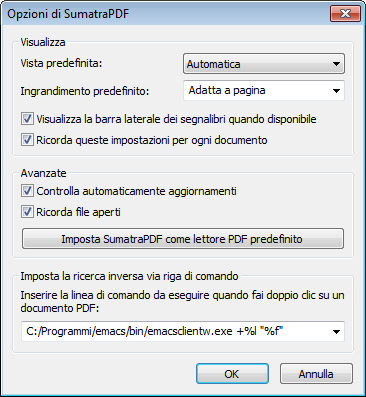
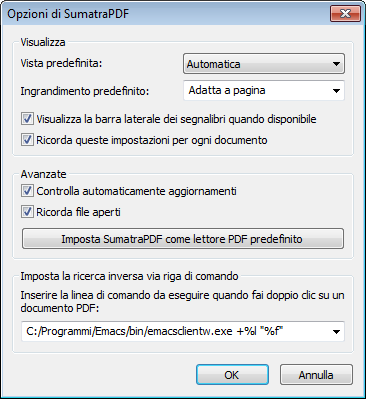
Finalmente dalla versione 2.2 SumatraPDF supporta nativamnete la ricerca-diretta inversa, senza passare per accrocchi vari del tipo SumatraPDF-TeX. Modificata, quindi, la figura e il testo

diff --git a/introemacs.tex b/introemacs.tex
@@ -269,32 +269,15 @@ takeown /f server
 \end{lstlisting}
 
 A questo punto, si può configurare \emacs{} per la ricerca diretta
-inversa con il visualizzatore SumatraPDF, scaricabile da sito \url{http://blog.kowalczyk.info/software/sumatrapdf/free-pdf-reader.html}.
-
-Per la verità, il visualizzatore sviluppato da Krzysztof Kowalczyk non
-supporta questa funzionalità, o meglio, non è ancora accessibile
-all'utente, pertanto, dopo averlo installato si può procedere nel
-seguente modo:
-\begin{enumerate}
-\item si scarica l'eseguibile Sumatra-\TeX{} %
-\sito{http://william.famille-blum.org/software/sumatra/}%
-     {SumatraPDF for \TeX\ users}
-di William Blum che ha sviluppato appunto la funzionalità di ricerca
-diretta-inversa e fornito un modo per accedervi;
-\item si rinomina l'eseguibile SumatraPDF-TeX in SumatraPDF;
-\item si copia tale file nella cartella dove è contenuto quello
-  installato precedentemente.
-\end{enumerate}
-
-A queste operazioni segue la configurazione di SumatraPDF e di \emacs,
-mediante il proprio file \emph{.emacs}.
+inversa con il visualizzatore SumatraPDF, scaricabile da sito
+\url{http://blog.kowalczyk.info/software/sumatrapdf/free-pdf-reader.html}.
 
 Per la ricerca inversa si deve aprire SumatraPDF, andare nel menu
 \texttt{Impostazioni} e quindi scegliere \texttt{Opzioni...} e scrivere la riga
 \begin{Verbatim}
-C:/Programmi/emacs/bin/emacsclientw.exe +%l "%f"
+C:/Programmi/Emacs/bin/emacsclientw.exe +%l "%f"
 \end{Verbatim}
-in \emph{Set inverse search command-line}. La figura~\ref{oi:fig:sumatra:setup}
+in \emph{Imposta la ricerca inversa via riga di comando}. La figura~\ref{oi:fig:sumatra:setup}
 vale più di mille parole.
 
 \begin{figure}[t]
@@ -314,9 +297,6 @@ del proprio file \emph{.init} con la riga
 \begin{Verbatim}
 (require 'sumatra-forward)
 \end{Verbatim}
-ed infine accertarsi di avere nella cartella degli eseguibili di
-\emacs, l'applicazione \textsf{ddeclient}, altrimenti scaricabile da %
-\url{http://ftp.gnu.org/old-gnu/emacs/windows/docs/ntemacs/contrib/ddeclient.zip}.
 
 Fatto questo resta da far capire a \emacs{} che si vuole la ricera
 diretta inversa, e per farlo si possono scrivere nel proprio
